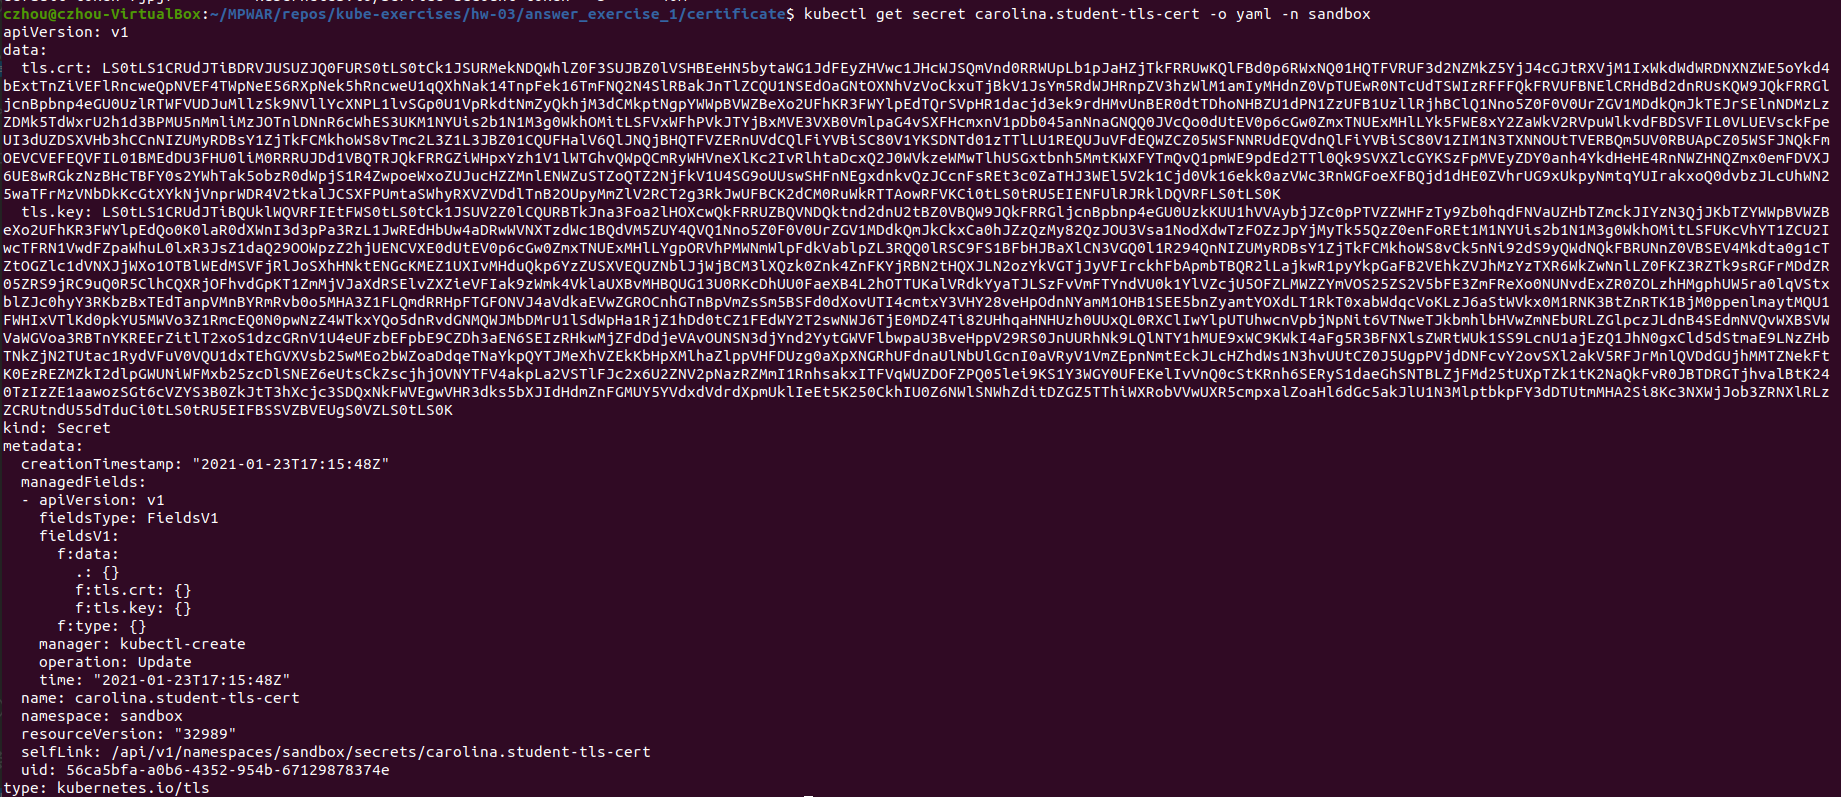
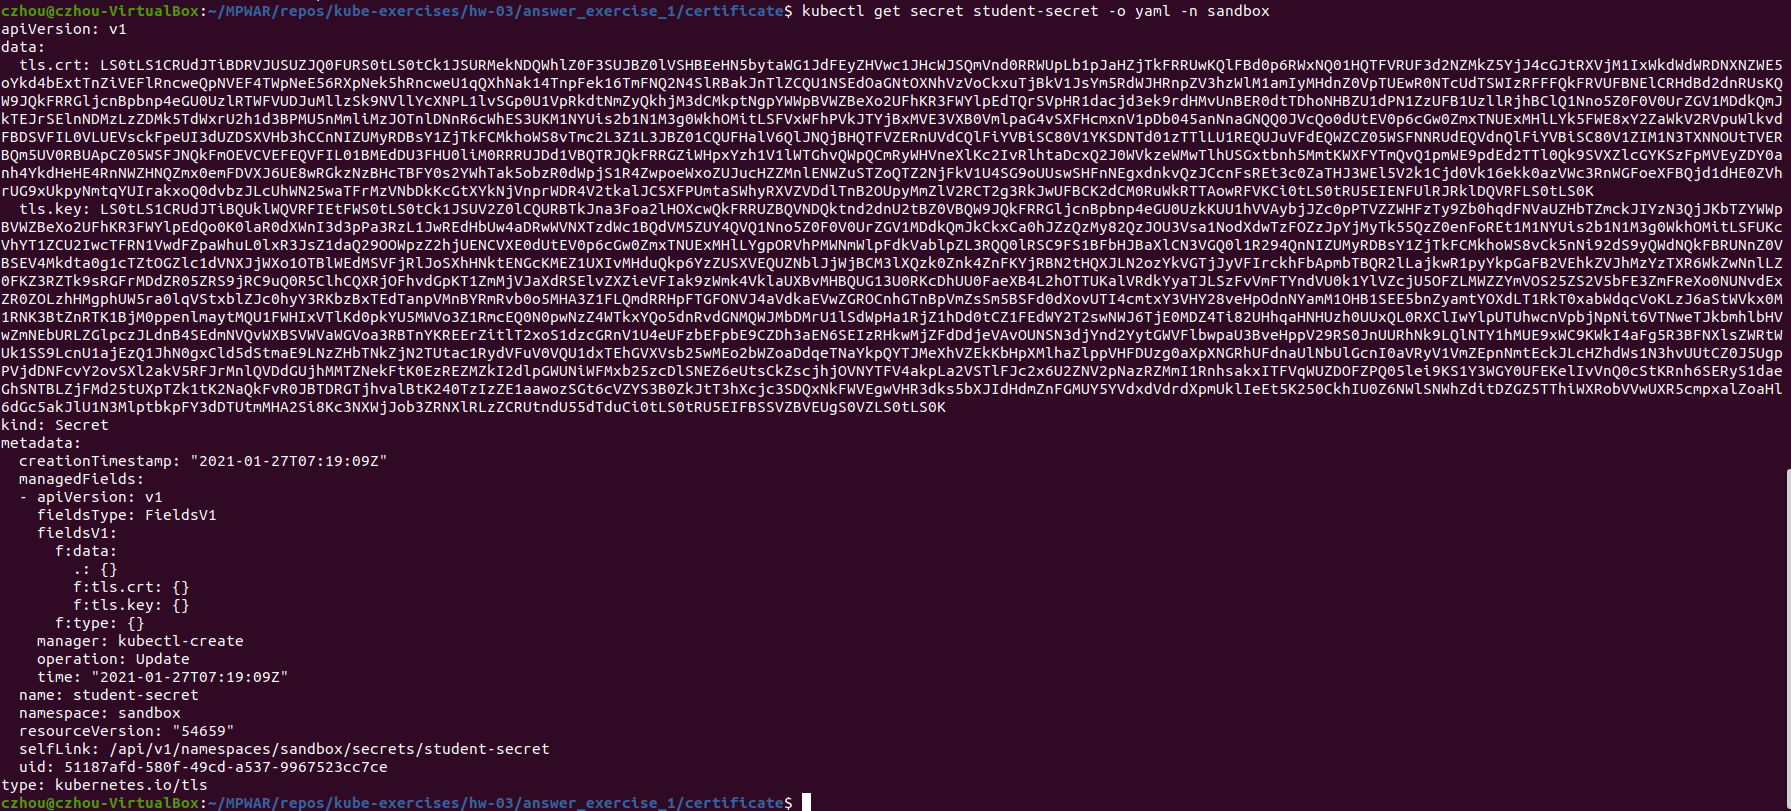
refactor: update answer_exercise_1 images and edit secret name

diff --git a/hw-03/answer_exercise_1/answer_exercise_1.md b/hw-03/answer_exercise_1/answer_exercise_1.md
@@ -20,7 +20,7 @@ Una vez realizadas las pruebas con el protocolo HTTP, se pide acceder al servici
 
 ## Answer
 
-Comenzamos con un objeto Deployment (nginx-deploy.yaml):
+Comenzamos con un objeto Deployment (nginx-deploy.yaml) en el namespace _sandbox_:
 ~~~
 kubectl create namespace sandbox
 kubectl create -f nginx-deploy.yaml -n sandbox
@@ -38,20 +38,20 @@ kubectl get endpoints nginx-svc -n sandbox
 Creamos el objeto Ingress (nginx-ingress.yaml)
 ~~~
 kubectl create -f nginx-ingress.yaml -n sandbox
-kubectl get nginx-ingress -n sandbox
+kubectl get ingress nginx-ingress -n sandbox
 ~~~
 ![image](./images/screenshot_3.png)
 
 Accedemos a la página principal de dos maneras: 
-- Navegador web - URL: http://carolina.student.lasalle.com
+- Navegador web --- URL: http://carolina.student.lasalle.com
 
     ![image](./images/screenshot_6.png)
 
-- Terminal - Instrucción: curl -k http://carolina.student.lasalle.com
+- Terminal --- Instrucción: curl -k http://carolina.student.lasalle.com
 
     ![image](./images/screenshot_4.png)
 
-Herramientas como Gas Mask (macOS) nos facilitan este acceso a partir del DNS; no hace falta ejecutar un _port-forward_ (que es en localhost y no sirve realmente en el mundo de producción) ni hace falta crear un service (que nos da acceso con una dirección con formato &lt;nombre&gt;:&lt;puerto&gt;).
+Herramientas como Gas Mask (Mac) nos facilitan este acceso a partir del DNS; no hace falta ejecutar un _port-forward_ (que es en localhost y no sirve realmente en el mundo de producción) ni hace falta crear un service (que nos da acceso con una dirección con formato &lt;nombre&gt;:&lt;puerto&gt;).
 
 En este caso, se ha modificado el Hosts File por terminal, añadiendo el nombre de dominio _carolina.student.lasalle.com_ para que se traduzca como la ip de minikube:
 ~~~
@@ -61,25 +61,26 @@ sudo nano /etc/hosts
 
 Este proceso no es seguro. Accederemos al servicio mediante protocolo HTTS creando un certificado y un Secret que lo contenga.
 - Para crear el certificado se ha usado OpenSSL
+
+    ![image](./images/screenshot_7.png)
+
     ~~~
     cd certificate
     openssl req -x509 -nodes -days 365 -newkey rsa:2048 -keyout tls.key -out tls.crt -subj "/CN=carolina.student.lasalle.com"
     ~~~
 
-    ![image](./images/screenshot_7.png)
-
     ![image](./images/screenshot_8.png)
 
 - Creamos un objeto Secret que contenga el certificado:
     ~~~
-    kubectl create secret tls carolina.student-tls-cert --key tls.key --cert tls.crt -n sandbox 
+    kubectl create secret tls student-secret --key tls.key --cert tls.crt -n sandbox 
     ~~~
 
     ![image](./images/screenshot_9.png)
 
 - Confirmamos la creación del secret:
     ~~~
-    kubectl get secret carolina.student-tls-cert -o yaml -n sandbox
+    kubectl get secret student-secret -o yaml -n sandbox
     ~~~
 
     ![image](./images/screenshot_10.png)
@@ -90,7 +91,7 @@ Este proceso no es seguro. Accederemos al servicio mediante protocolo HTTS crean
     tls:
     - hosts:
         - carolina.student.lasalle.com
-        secretName: carolina.student-tls-cert
+        secretName: student-secret
     ~~~
     ~~~
     kubectl create -f nginx-ingress-ssl.yaml -n sandbox
@@ -103,17 +104,13 @@ Validamos estos cambios por el navegador web.
 
     ![image](./images/screenshot_11.png)
 
-- En la barra superior podemos comprobar que estamos accediendo mediante HTTPS (CHECK POR QUÉ NO):
-
-    ![image](./images/screenshot_XX.png)
-
-- Podemos ver el certificado creado:
-
-    ![image](./images/screenshot_12.png)
+- Podemos comprobar que estamos accediendo mediante HTTPS y ver el certificado creado:
 
     ![image](./images/screenshot_16.png)
 
     ![image](./images/screenshot_15.png)
+
+    ![image](./images/screenshot_12.png)
 
 También podemos validarlo por terminal
 ~~~ 
